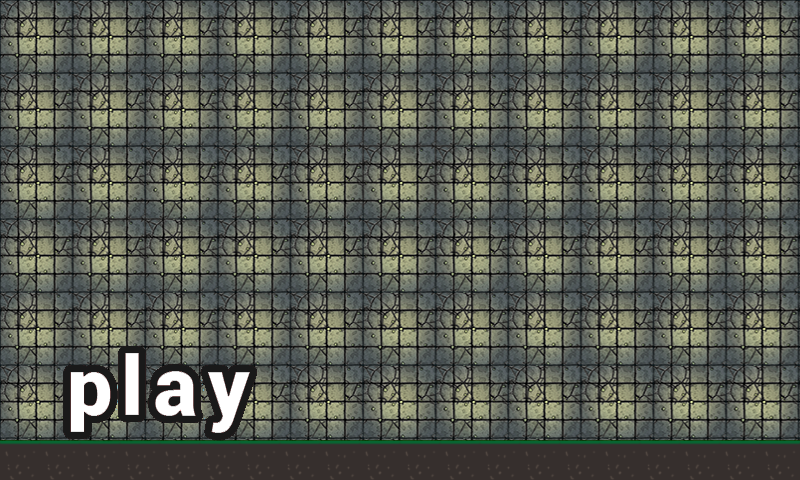
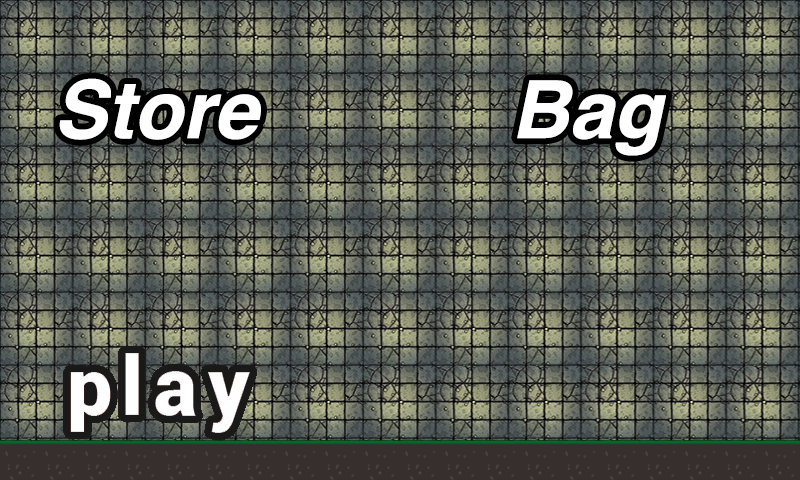
minor changes

Changed region(s): [[0.0625, 0.1562, 0.3438, 0.3125], [0.625, 0.1562, 0.8438, 0.3438]]

diff --git a/src/com/mikedepinto/robotgame/ShopMenu.java b/src/com/mikedepinto/robotgame/ShopMenu.java
@@ -1,0 +1,67 @@
+package com.mikedepinto.robotgame;
+
+import com.mikedepinto.framework.Game;
+import com.mikedepinto.framework.Graphics;
+import com.mikedepinto.framework.Input.TouchEvent;
+import com.mikedepinto.framework.Screen;
+
+import java.util.List;
+
+public class ShopMenu extends Screen {
+    public ShopMenu(Game game) {
+        super(game);
+    }
+
+    @Override
+    public void update(float deltaTime) {
+        Graphics g = game.getGraphics();
+        List<TouchEvent> touchEvents = game.getInput().getTouchEvents();
+
+        int len = touchEvents.size();
+        for (int i = 0; i < len; i++) {
+            TouchEvent event = touchEvents.get(i);
+            if (event.type == TouchEvent.TOUCH_UP) {
+
+                if (inBounds(event, 50, 350, 250, 450)) {
+                    game.setScreen(new GameScreen(game));
+                }
+
+            }
+        }
+    }
+
+    private boolean inBounds(TouchEvent event, int x, int y, int width,
+                             int height) {
+        if (event.x > x && event.x < x + width - 1 && event.y > y
+                && event.y < y + height - 1)
+            return true;
+        else
+            return false;
+    }
+
+    @Override
+    public void paint(float deltaTime) {
+        Graphics g = game.getGraphics();
+        g.drawImage(Assets.menu, 0, 0);
+    }
+
+    @Override
+    public void pause() {
+    }
+
+    @Override
+    public void resume() {
+
+    }
+
+    @Override
+    public void dispose() {
+
+    }
+
+    @Override
+    public void backButton() {
+        android.os.Process.killProcess(android.os.Process.myPid());
+
+    }
+}

diff --git a/src/com/mikedepinto/robotgame/LoadingScreen.java b/src/com/mikedepinto/robotgame/LoadingScreen.java
@@ -47,6 +47,7 @@ public class LoadingScreen extends Screen {
         Assets.attackButton2 = g.newImage("attackButton2.png", ImageFormat.ARGB4444);
 
 		Assets.button = g.newImage("button.jpg", ImageFormat.RGB565);
+        Assets.store = g.newImage("store.png", ImageFormat.RGB565);
 
 		//This is how you would load a sound if you had one.
 		//Assets.click = game.getAudio().createSound("explode.ogg");

diff --git a/src/com/mikedepinto/robotgame/Assets.java b/src/com/mikedepinto/robotgame/Assets.java
@@ -10,6 +10,7 @@ public class Assets {
     characterSword;
 	public static Image tiledirt, tilegrassTop, tilegrassBot, tilegrassLeft, tilegrassRight, characterJump, characterDown;
 	public static Image button, rightArrow, attackButton, jumpButton, attackButton2;
+    public static Image store;
 	public static Sound click;
 	public static Music theme;
 	
